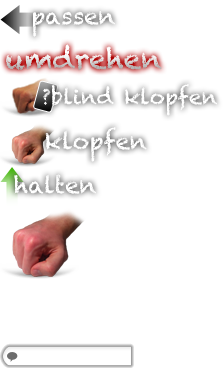
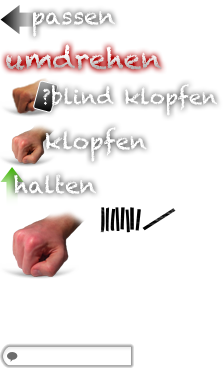
added strikes

Changed region(s): [[0.4305, 0.538, 0.7803, 0.6277]]

diff --git a/js/game.js b/js/game.js
@@ -96,10 +96,13 @@ var game = new function () {
 		}
 
 		this.fold = function () {
-			if (laid) {
-				remove = "stack";
+			if (laid || place == 0) {
 				$(".front", card).fadeOut(animationTime(300));
 				$(".back", card).fadeIn(animationTime(400));
+			}
+			if (laid) {
+				remove = "stack";
+				
 			} else {
 				remove = "hand";
 			}
@@ -149,11 +152,11 @@ var game = new function () {
 
 		this.startGame = function (i, p) {
 			place = p;
-			placeTable = i + 1;
+			placeTable = i;
 			dom = $(".players > div").eq(place);
 			// add player to strikes table
 			// +1 because first cell is for round number
-			tableDom = $("#strikes .top td").eq(placeTable);
+			tableDom = $("#strikes .top td").eq(placeTable+1);
 			tableDom.html(this.name);
 			// set player's name on the table
 			$(".name", dom).html(this.name);
@@ -183,8 +186,19 @@ var game = new function () {
 		}
 
 		// update the players entry in strikes table
-		this.updateStrikes = function (strikes) {
-			$("#strikes .sTable tr:last td").eq(placeTable).html(strikes);
+		this.updateStrikes = function (newState) {
+			for (i = strikes+1; i <= newState; i++) {
+				sDom = $("<div>").addClass("strike action");
+				if (i % 5 == 0) {
+					sDom.addClass("cross");
+				} else {
+					pos = 100 + Math.round(Math.random() * 7) * 5;
+					alert(i);
+					sDom.css("background-position", "-"+pos+"px -207px").css("left", i*6+"px");
+				}
+				$("#strikes .sTable tr:last td div").eq(placeTable).append(sDom);
+			}
+			strikes = newState;
 		}
 
 		// show cards in hand
@@ -444,6 +458,8 @@ var game = new function () {
 					// add first cell for round number
 					if (i == 0) {
 						cell.html(rounds);
+					} else {
+						cell.append($("<div>"));
 					}
 					row.append(cell);
 				}
@@ -617,7 +633,7 @@ var game = new function () {
 
 				// got updated number of strikes for user
 				case "strikes":
-					players[action.player].updateStrikes(action.content);
+					players[action.player].updateStrikes(parseInt(action.content));
 					break;
 
 				// received new chat message
@@ -833,7 +849,8 @@ var game = new function () {
 		}, 3000);
 		setTimeout(function () {
 			//queue.push({"player":"2", "action": "poor", "content": ""});
-			queue.push({"player":"1", "action": "knockTurn", "content": ""});
+			//queue.push({"player":"1", "action": "knockTurn", "content": ""});
+			players[1].updateStrikes("7");
 			//queue.push({"player":"1", "action": "smallRoundEnded", "content": ""});
 			//queue.push({"player":"1", "action": "roundEnded", "content": ""});
 			processQueue(true);

diff --git a/css/game.css b/css/game.css
@@ -548,6 +548,15 @@
 #panel #strikes table td {
 	text-align: center;
 	border-left: 2px #363636 solid;
+	padding: 0px;
+}
+#panel #strikes .sTable table td {
+	height: 27px;
+}
+#panel #strikes .sTable table div {
+	height: 25px;
+	margin-top: 1px;
+	margin-left: 7px;
 }
 #panel #strikes table td.quit {
 	text-decoration: line-through;
@@ -573,6 +582,15 @@
 }
 #panel #strikes .sTable.smaller {
 	height: 75%;
+}
+#panel #strikes .strike {
+	position: absolute;
+	width: 5px;
+	height: 25px;
+}
+#panel #strikes .strike.cross {
+	width: 33px;
+	background-position: -143px -207px;
 }
 #panel #strikes .actions {
 	margin-top: 6px;
